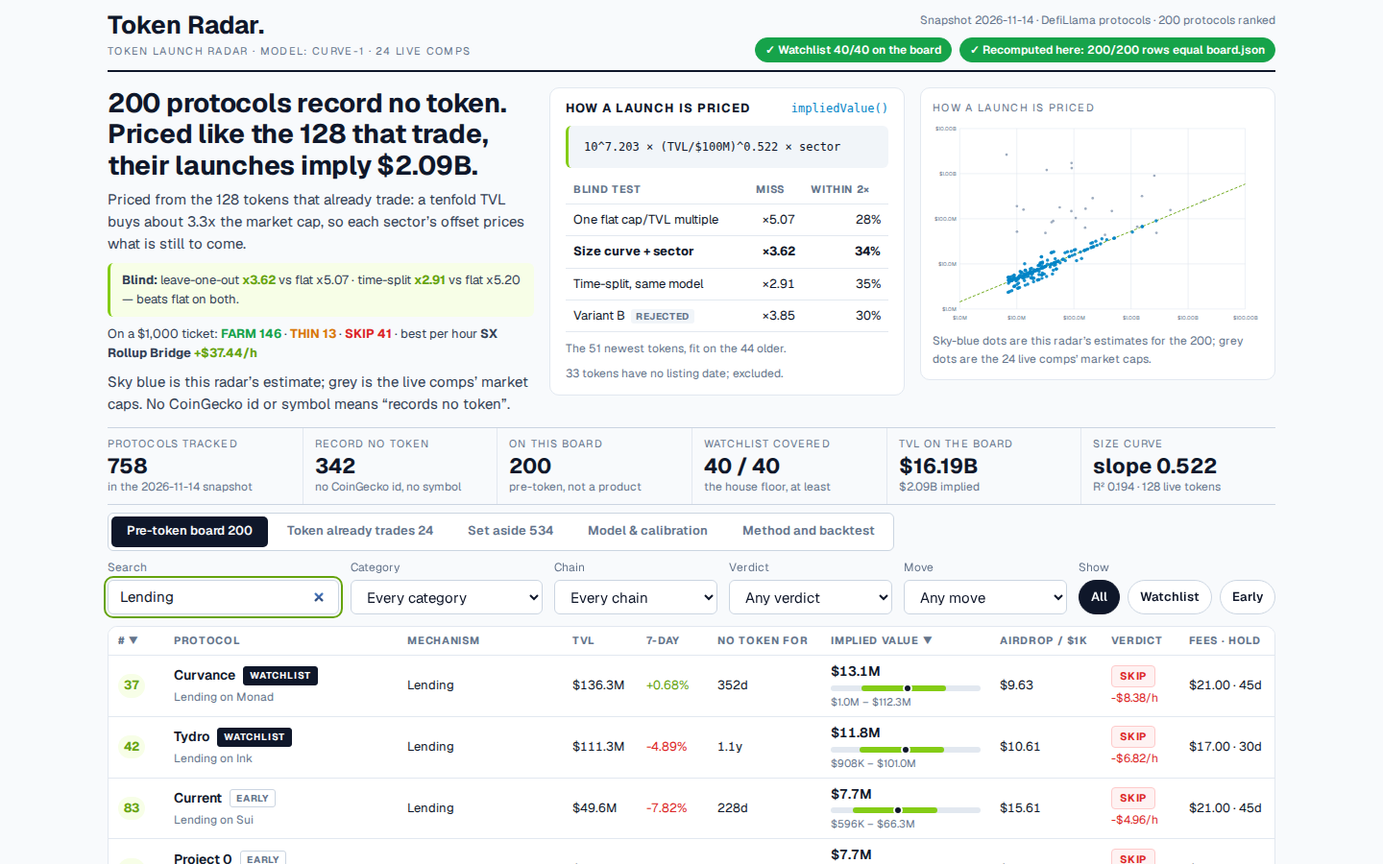
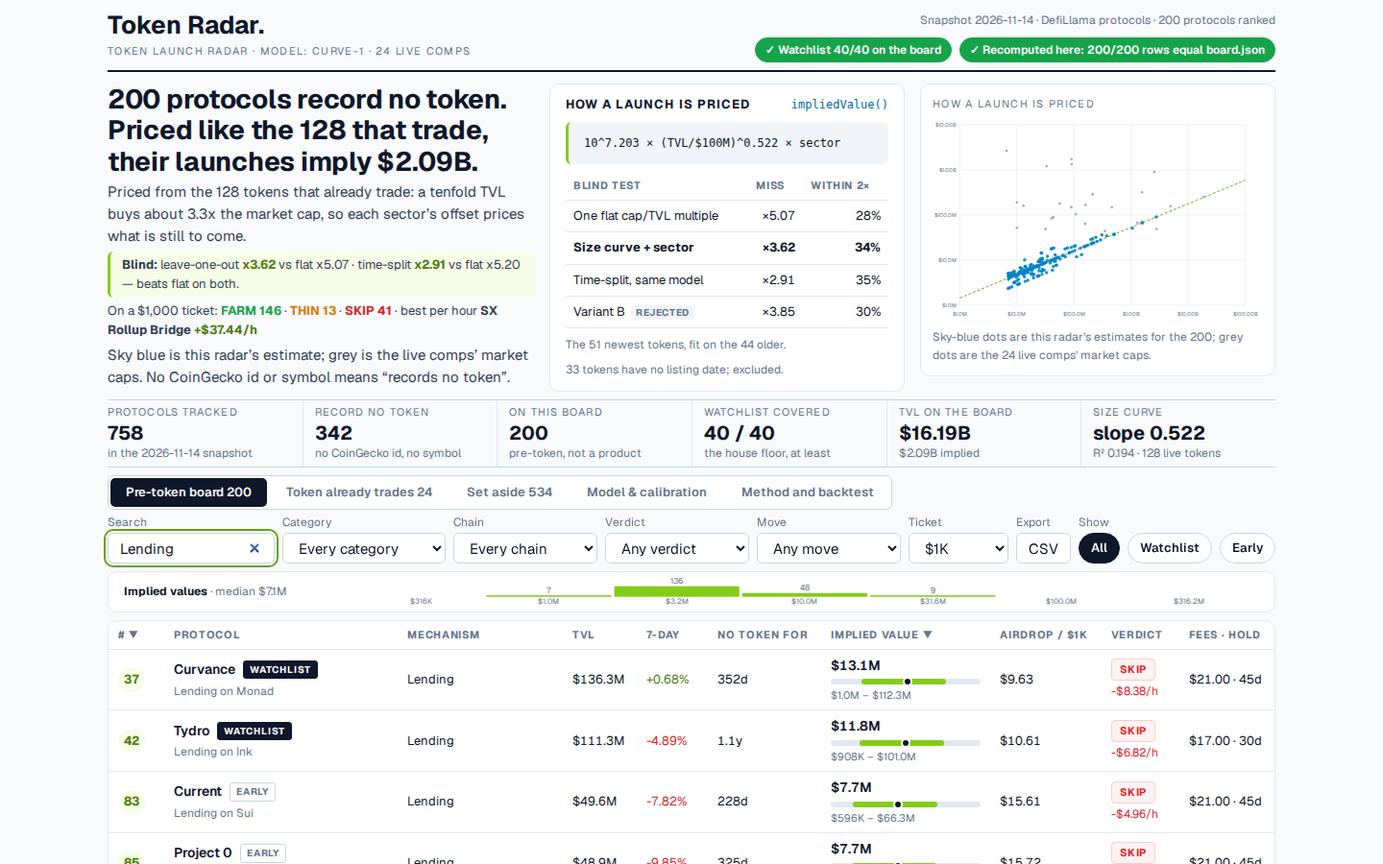
small audit items: histogram above table, text contrast, detail polish, CSV + ticket picker

diff --git a/dashboard/app.js b/dashboard/app.js
@@ -7,7 +7,7 @@
   var DATA = window.RADAR;
   if (!DATA) return;
   var app = document.getElementById('board');
-  var state = { q: '', category: 'all', chain: 'all', verdict: 'all', move: 'all', pill: 'all', tab: 'board', sort: 'implied', dir: -1, selected: null };
+  var state = { q: '', category: 'all', chain: 'all', verdict: 'all', move: 'all', pill: 'all', ticket: 1000, tab: 'board', sort: 'implied', dir: -1, selected: null };
 
   function fmtUsd(n) {
     if (n === null || n === undefined || !isFinite(n)) return 'n/a';
@@ -109,7 +109,7 @@
     return DATA.rows.filter(function (r) {
       if (state.category !== 'all' && r.category !== state.category) return false;
       if (state.chain !== 'all' && (r.chains || []).indexOf(state.chain) < 0) return false;
-      if (state.verdict !== 'all' && (!r.economics || r.economics.verdict !== state.verdict)) return false;
+      if (state.verdict !== 'all' && (!r.economics || econAt(r.economics).verdict !== state.verdict)) return false;
       if (state.move === 'up' && !(r.change_7d !== null && r.change_7d > 0)) return false;
       if (state.move === 'down' && !(r.change_7d !== null && r.change_7d < 0)) return false;
       if (state.pill === 'watchlist' && !r.watchlist) return false;
@@ -126,8 +126,8 @@
       if (key === 'tvl') return r.tvl_usd;
       if (key === 'growth') return r.change_7d === null ? -Infinity : r.change_7d;
       if (key === 'age') return r.age_days === null ? Infinity : r.age_days;
-      if (key === 'slice') return r.economics ? r.economics.slice_usd : 0;
-      if (key === 'net') return r.economics ? r.economics.net_per_hour_usd : 0;
+      if (key === 'slice') return r.economics ? econAt(r.economics).slice_usd : 0;
+      if (key === 'net') return r.economics ? econAt(r.economics).net_per_hour_usd : 0;
       return r.implied_value_usd;
     }
     return list.slice().sort(function (a, b) {
@@ -307,11 +307,11 @@
   function controls() {
     var categories = Array.from(new Set(DATA.rows.map(function (r) { return r.category || 'Other'; }))).sort();
     var chains = Array.from(new Set(DATA.rows.reduce(function (acc, r) { return acc.concat(r.chains || []); }, []))).sort();
-    function makeSelect(id, label, options, current, wide) {
+    function makeSelect(id, label, options, current, wide, cls) {
       var opts = options.map(function (o) {
         return '<option value="' + esc(o[0]) + '"' + (o[0] === current ? ' selected="selected"' : '') + '>' + esc(o[1]) + '</option>';
       }).join('');
-      return '<div class="field' + (wide ? ' field-wide' : '') + '"><label for="' + id + '">' + label + '</label><select id="' + id + '" aria-label="' + label + '">' + opts + '</select></div>';
+      return '<div class="field' + (wide ? ' field-wide' : '') + (cls ? ' ' + cls : '') + '"><label for="' + id + '">' + label + '</label><select id="' + id + '" aria-label="' + label + '">' + opts + '</select></div>';
     }
     function pill(id, label) {
       return '<button type="button" class="pill' + (state.pill === id ? ' active' : '') + '" aria-pressed="' + (state.pill === id ? 'true' : 'false') + '" data-act="pill" data-pill="' + id + '">' + label + '</button>';
@@ -324,6 +324,8 @@
       makeSelect('chain', 'Chain', [['all', 'Every chain']].concat(chains.map(function (c) { return [c, c]; })), state.chain, false) +
       makeSelect('verdict', 'Verdict', [['all', 'Any verdict'], ['FARM', 'FARM'], ['THIN', 'THIN'], ['SKIP', 'SKIP']], state.verdict, false) +
       makeSelect('move', 'Move', [['all', 'Any move'], ['up', 'Up, 7 days'], ['down', 'Down, 7 days']], state.move, false) +
+      makeSelect('ticket', 'Ticket', [['1000', '$1K'], ['10000', '$10K'], ['100000', '$100K']], String(state.ticket), false, 'field-ticket') +
+      '<div class="field"><label>Export</label><button type="button" class="button csv-btn" data-act="csv">CSV</button></div>' +
       '<div class="field"><label>Show</label><div class="pills">' + pill('all', 'All') + pill('watchlist', 'Watchlist') + pill('early', 'Early') + '</div></div>' +
     '</div>';
   }
@@ -341,19 +343,18 @@
       }
     });
     var maxC = Math.max.apply(null, counts.concat([1]));
-    var W = 1200, H = 120, L = 8, R = 8, T = 8, B = 22;
+    var W = 1200, H = 36, L = 8, R = 8, T = 11, B = 11;
     var bw = (W - L - R) / counts.length;
-    var parts = ['<svg viewBox="0 0 ' + W + ' ' + H + '" role="img" aria-label="Distribution of implied values, log scale">'];
+    var parts = ['<svg viewBox="0 0 ' + W + ' ' + H + '" role="img" aria-label="Distribution of implied values, log scale, half a decade a bar">'];
     counts.forEach(function (c, idx) {
-      var h = Math.max(c > 0 ? 3 : 0, Math.round((c / maxC) * (H - T - B - 14)));
+      var h = Math.max(c > 0 ? 2 : 0, Math.round((c / maxC) * (H - T - B)));
       var x = L + idx * bw + 2;
       parts.push('<rect class="hist-bar" x="' + x.toFixed(1) + '" y="' + (H - B - h) + '" width="' + (bw - 4).toFixed(1) + '" height="' + h + '"/>');
-      if (c > 0) parts.push('<text class="hist-n" x="' + (x + (bw - 4) / 2).toFixed(1) + '" y="' + (H - B - h - 4) + '" text-anchor="middle">' + c + '</text>');
-      parts.push('<text class="tick" x="' + (x + (bw - 4) / 2).toFixed(1) + '" y="' + (H - 6) + '" text-anchor="middle">' + fmtUsd(edges[idx]) + '</text>');
+      if (c > 0) parts.push('<text class="hist-n" x="' + (x + (bw - 4) / 2).toFixed(1) + '" y="' + (H - B - h - 3) + '" text-anchor="middle">' + c + '</text>');
+      parts.push('<text class="tick" x="' + (x + (bw - 4) / 2).toFixed(1) + '" y="' + (H - 2) + '" text-anchor="middle">' + fmtUsd(edges[idx]) + '</text>');
     });
     parts.push('</svg>');
-    return '<section class="panel hist"><h2>How the board\u2019s implied values are distributed</h2><div>' + parts.join('') + '</div>' +
-      '<p class="hist-note">Log scale, half a decade a bar; the middle of the board is ' + fmtUsd(MEDIAN_IMPLIED) + '. The long tail is the small early rows. Each row\u2019s table bar shows its own sensitivity range \u2014 the model\u2019s leave-one-out error, P10\u2013P90 \u2014 on a log scale from the smallest low to the largest high. Slice: what $1,000 deposited would get if 10% of the launch goes to depositors pro rata. Net: that slice minus the plan\u2019s gas and the forgone 4% T-bill yield, per plan and per hands-on hour.</p></section>';
+    return '<section class="panel hist-strip" title="Log scale, half a decade a bar"><div class="hist-strip-label"><b>Implied values</b> <span>\u00b7 median ' + fmtUsd(MEDIAN_IMPLIED) + '</span></div><div class="hist-strip-svg">' + parts.join('') + '</div></section>';
   }
 
   function sortHeader(key, label) {
@@ -391,6 +392,7 @@
     }
     var body = list.map(function (r) {
       var e = r.economics;
+      var ea = econAt(e);
       var growth = r.change_7d === null ? 'n/a' : fmtPct(r.change_7d);
       var growthClass = r.change_7d === null ? '' : r.change_7d >= 0 ? 'pos' : 'neg';
       var chains = r.chains || [];
@@ -403,8 +405,8 @@
         '<td class="num ' + growthClass + '">' + growth + '</td>' +
         '<td class="num">' + fmtAge(r.age_days) + '</td>' +
         '<td>' + rangeBar(r) + '</td>' +
-        '<td class="num">' + (e ? fmtMoney(e.slice_usd) : 'n/a') + '</td>' +
-        '<td>' + (e ? '<div class="verdict-cell">' + verdictTag(e.verdict) + '<div class="net-h ' + (e.net_per_hour_usd >= 0 ? 'pos' : 'neg') + '">' + fmtSigned(e.net_per_hour_usd) + '/h</div></div>' : '<span>n/a</span>') + '</td>' +
+        '<td class="num">' + (ea ? fmtMoney(ea.slice_usd) : 'n/a') + '</td>' +
+        '<td>' + (ea ? '<div class="verdict-cell">' + verdictTag(ea.verdict) + '<div class="net-h ' + (ea.net_per_hour_usd >= 0 ? 'pos' : 'neg') + '">' + fmtSigned(ea.net_per_hour_usd) + '/h</div></div>' : '<span>n/a</span>') + '</td>' +
         '<td class="num">' + (e ? fmtMoney(e.gas_usd) + ' \u00b7 ' + e.hold_days + 'd' : 'n/a') + '</td>' +
       '</tr>';
     }).join('');
@@ -412,7 +414,7 @@
       sortHeader('implied', '#') + sortHeader('name', 'Protocol') +
       '<th>Mechanism</th>' +
       sortHeader('tvl', 'TVL') + sortHeader('growth', '7-day') + sortHeader('age', 'No token for') +
-      sortHeader('implied', 'Implied value') + sortHeader('slice', 'Airdrop / $1K') + sortHeader('net', 'Verdict') +
+      sortHeader('implied', 'Implied value') + sortHeader('slice', 'Airdrop / ' + ticketLabel()) + sortHeader('net', 'Verdict') +
       '<th>Fees \u00b7 Hold</th>' +
       '</tr></thead><tbody>' + body + '</tbody></table></div>' +
       '<div class="table-meta"><span class="count">' + list.length + ' of ' + DATA.board_size + ' shown \u00b7 click a column to sort, a row for its detail</span></div></div></div>';
@@ -621,8 +623,8 @@
       '<div class="panel dstat"><div class="stat-label">IMPLIED VALUE</div><div class="stat-value">' + fmtUsd(row.implied_value_usd) + '</div><div class="stat-sub">P25 to P90 ' + fmtUsd(s.p25) + ' to ' + fmtUsd(s.p90) + '</div></div>' +
       '<div class="panel dstat"><div class="stat-label">TVL</div><div class="stat-value">' + fmtUsd(row.tvl_usd) + '</div><div class="stat-sub">' + (row.change_7d === null ? '7d n/a' : '7d ' + fmtPct(row.change_7d)) + '</div></div>' +
       '<div class="panel dstat"><div class="stat-label">NO TOKEN FOR</div><div class="stat-value">' + fmtAge(row.age_days) + '</div><div class="stat-sub">tracked since ' + esc(row.listed_at || '\u2014') + '</div></div>' +
-      '<div class="panel dstat"><div class="stat-label">NET OF ALL COSTS</div><div class="stat-value">' + (e ? fmtMoney(e.slice_usd) : 'n/a') + '</div><div class="stat-sub">at 10% to depositors</div>' +
-        (e ? '<div class="stat-net ' + (e.net_usd >= 0 ? 'pos' : 'neg') + '">' + fmtSigned(e.net_usd) + '</div><div class="stat-sub">' + esc(e.verdict) + ' | ' + fmtMoney(e.gas_usd) + ' fees + ' + fmtMoney(e.forgone_usd) + ' T-bill</div>' : '') +
+      '<div class="panel dstat"><div class="stat-label">NET OF ALL COSTS</div><div class="stat-value ' + (e ? (e.net_usd >= 0 ? 'pos' : 'neg') : '') + '">' + (e ? fmtSigned(e.net_usd) : 'n/a') + '</div><div class="stat-sub">slice ' + (e ? fmtMoney(e.slice_usd) : 'n/a') + ' at 10% to depositors</div>' +
+        (e ? '<div class="stat-sub">' + esc(e.verdict) + ' | ' + fmtMoney(e.gas_usd) + ' fees + ' + fmtMoney(e.forgone_usd) + ' T-bill</div>' : '') +
       '</div></section>';
 
     
@@ -655,11 +657,11 @@
     
     var steps = row.plan || [];
     var planBody = steps.map(function (st, i) {
-      return '<tr><td class="num">' + (i + 1) + '</td><td class="plan-step"><b>' + esc(st.label) + '. </b>' + esc(st.text || '') + '</td><td class="num">' + ((st.cost_usd || 0) === 0 ? 'none' : fmtMoney(st.cost_usd)) + '</td><td class="num">' + ((st.minutes || 0) > 0 ? (st.minutes + 'm') : '\u2014') + '</td></tr>';
+      return '<tr><td class="num">' + (i + 1) + '</td><td class="plan-step"><b>' + esc(st.label) + '. </b>' + esc(st.text || '') + '</td><td class="num">' + ((st.cost_usd || 0) === 0 ? 'none' : fmtMoney(st.cost_usd)) + '</td><td class="num">' + ((st.minutes || 0) > 0 ? (st.minutes + 'm') : esc(st.time || '\u2014')) + '</td></tr>';
     }).join('');
     var plan = '<section class="panel dpanel"><h2>Farm plan \u00b7 ' + esc(row.category || 'Other') + ' on ' + esc(chain0) + ' \u00b7 $' + capital + ' for ' + hold + ' days</h2>' +
       '<div class="table-wrap"><table class="detail-table plan-table"><thead><tr><th>#</th><th>Step</th><th>Cost</th><th>Time</th></tr></thead><tbody>' + planBody + '</tbody></table></div>' +
-      (e ? '<p class="plan-foot">Slice ' + fmtMoney(e.slice_usd) + ' \u00b7 Fees \u2212' + fmtMoney(e.gas_usd) + ' \u00b7 T-bill forgone \u2212' + fmtMoney(e.forgone_usd) + ' \u00b7 Net <b class="' + (e.net_usd >= 0 ? 'pos' : 'neg') + '">' + fmtSigned(e.net_usd) + '</b> \u00b7 Work ' + e.hands_on_hours.toFixed(2) + 'h \u00b7 Per hour <b class="' + (e.net_per_hour_usd >= 0 ? 'pos' : 'neg') + '">' + fmtSigned(e.net_per_hour_usd) + '/h</b></p>'
+      (e ? '<p class="plan-foot">Slice ' + fmtMoney(e.slice_usd) + ' \u00b7 Fees \u2212' + fmtMoney(e.gas_usd) + ' \u00b7 T-bill forgone \u2212' + fmtMoney(e.forgone_usd) + ' \u00b7 Net\u00a0<b class="' + (e.net_usd >= 0 ? 'pos' : 'neg') + '">' + fmtSigned(e.net_usd) + '</b> \u00b7 Work ' + e.hands_on_hours.toFixed(2) + 'h \u00b7 Per hour\u00a0<b class="' + (e.net_per_hour_usd >= 0 ? 'pos' : 'neg') + '">' + fmtSigned(e.net_per_hour_usd) + '/h</b></p>'
         : '<p class="plan-foot">No farm economics for this row.</p>') +
     '</section>';
 
@@ -693,7 +695,7 @@
     if (state.selected && !row) { state.selected = null; writeHash(); }
     var body;
     if (row) body = tabBar() + detailPage(row);
-    else if (state.tab === 'board') body = hero() + statsStrip() + tabBar() + controls() + boardTable() + histogram();
+    else if (state.tab === 'board') body = hero() + statsStrip() + tabBar() + controls() + histogram() + boardTable();
     else if (state.tab === 'live') body = tabBar() + liveTable();
     else if (state.tab === 'setaside') body = tabBar() + setAsideTab();
     else if (state.tab === 'backtest') body = tabBar() + backtestTab();
@@ -719,6 +721,7 @@
     else if (act === 'pill') { state.pill = t.getAttribute('data-pill'); writeHash(); render(); }
     else if (act === 'back') { goBackToBoard(); }
     else if (act === 'clear') { state.q = ''; state.category = 'all'; state.chain = 'all'; state.verdict = 'all'; state.move = 'all'; state.pill = 'all'; writeHash(); render(); }
+    else if (act === 'csv') { downloadCsv(); }
   });
   app.addEventListener('input', function (e) {
     if (e.target.id === 'q') {
@@ -732,7 +735,7 @@
     }
   });
   app.addEventListener('change', function (e) {
-    if (['category', 'chain', 'verdict', 'move'].indexOf(e.target.id) < 0) return;
+    if (['category', 'chain', 'verdict', 'move', 'ticket'].indexOf(e.target.id) < 0) return;
     state[e.target.id] = e.target.value;
     writeHash();
     render();
@@ -746,6 +749,37 @@
 
   readHash();
   render();
+  function ticketLabel() { var t = +state.ticket; return t === 100000 ? '$100K' : t === 10000 ? '$10K' : '$1K'; }
+  function econAt(e) {
+    if (!e) return null;
+    var k = state.ticket / 1000;
+    var slice = e.slice_usd * k;
+    var forgone = e.forgone_usd * k;
+    var net = slice - e.gas_usd - forgone;
+    return { slice_usd: slice, gas_usd: e.gas_usd, forgone_usd: forgone, net_usd: net, net_per_hour_usd: net / e.hands_on_hours, verdict: net > 0 ? 'FARM' : (slice - e.gas_usd > 0 ? 'THIN' : 'SKIP'), hold_days: e.hold_days, hands_on_hours: e.hands_on_hours };
+  }
+  function csvCell(v) {
+    var s = String(v === null || v === undefined ? '' : v);
+    return /[",\n]/.test(s) ? '"' + s.replace(/"/g, '""') + '"' : s;
+  }
+  function downloadCsv() {
+    var list = sortedRows(rows());
+    var head = ['rank', 'protocol', 'category', 'tvl_usd', 'change_7d_pct', 'age_days', 'implied_value_usd', 'implied_p10_usd', 'implied_p90_usd', 'airdrop_usd', 'verdict', 'net_per_hour_usd', 'gas_usd', 'hold_days'];
+    var lines = [head.join(',')];
+    list.forEach(function (r) {
+      var ea = econAt(r.economics);
+      var s = r.sensitivity || {};
+      lines.push([r.rank, r.name, r.category || 'Other', r.tvl_usd, r.change_7d === null ? '' : r.change_7d, r.age_days === null ? '' : r.age_days, r.implied_value_usd, s.p10 || '', s.p90 || '', ea ? ea.slice_usd.toFixed(2) : '', ea ? ea.verdict : '', ea ? ea.net_per_hour_usd.toFixed(2) : '', r.economics ? r.economics.gas_usd : '', r.economics ? r.economics.hold_days : ''].map(csvCell).join(','));
+    });
+    var blob = new Blob([lines.join('\n')], { type: 'text/csv' });
+    var a = document.createElement('a');
+    a.href = URL.createObjectURL(blob);
+    a.download = 'token-launch-radar.csv';
+    document.body.appendChild(a);
+    a.click();
+    a.remove();
+    setTimeout(function () { URL.revokeObjectURL(a.href); }, 1000);
+  }
   window.addEventListener('keydown', function (e) {
     if (e.key === 'Escape' && state.selected) goBackToBoard();
   });

diff --git a/dashboard/app.css b/dashboard/app.css
@@ -1,6 +1,6 @@
 @font-face{font-family:'Geist';src:url('fonts/geist-var.woff2') format('woff2-variations');font-weight:100 900;font-style:normal;font-display:swap}
 @font-face{font-family:'Geist';src:url('fonts/geist-var-italic.woff2') format('woff2-variations');font-weight:100 900;font-style:italic;font-display:swap}
-:root{--paper:#f8fafc;--paper-deep:#f1f5f9;--surface:#fff;--ink:#0f172a;--ink-soft:#334155;--muted:#64748b;--border:#e2e8f0;--border-strong:#cbd5e1;--accent:#65a30d;--lime:#84cc16;--lime-soft:#f7fee7;--lime-mid:#bef264;--sky:#0284c7;--sky-fill:#0ea5e9;--sky-soft:#f0f9ff;--amber:#d97706;--amber-soft:#fffbeb;--negative:#dc2626;--negative-soft:#fef2f2;--gold:#eab308;--radius-control:6px;--radius-panel:10px;--font-body:'Geist',system-ui,-apple-system,"Segoe UI",Roboto,"Helvetica Neue",Arial,sans-serif;--font-mono:ui-monospace,"SF Mono",Menlo,Consolas,monospace;--step-1:4px;--step-2:8px;--step-3:12px;--step-4:16px;--step-5:24px;--step-6:32px;--step-7:48px}
+:root{--paper:#f8fafc;--paper-deep:#f1f5f9;--surface:#fff;--ink:#0f172a;--ink-soft:#334155;--muted:#64748b;--border:#e2e8f0;--border-strong:#cbd5e1;--accent:#65a30d;--accent-text:#4d7c0f;--lime:#84cc16;--lime-soft:#f7fee7;--lime-mid:#bef264;--sky:#0284c7;--sky-text:#0369a1;--sky-fill:#0ea5e9;--sky-soft:#f0f9ff;--amber:#d97706;--amber-soft:#fffbeb;--negative:#dc2626;--negative-soft:#fef2f2;--gold:#eab308;--radius-control:6px;--radius-panel:10px;--font-body:'Geist',system-ui,-apple-system,"Segoe UI",Roboto,"Helvetica Neue",Arial,sans-serif;--font-mono:ui-monospace,"SF Mono",Menlo,Consolas,monospace;--step-1:4px;--step-2:8px;--step-3:12px;--step-4:16px;--step-5:24px;--step-6:32px;--step-7:48px}
 *{box-sizing:border-box}
 html{color-scheme:light}
 body{margin:0;background:var(--paper);color:var(--ink);font:400 15px/1.55 var(--font-body);text-wrap:pretty}
@@ -12,7 +12,7 @@ p{margin:0}
 figure{margin:0}
 button,input,select{font:inherit;color:inherit}
 button{cursor:pointer}
-a{color:var(--accent)}
+a{color:var(--accent-text)}
 .skip-link{position:absolute;left:-9999px;top:0;padding:var(--step-2) var(--step-4);background:var(--surface);border:1px solid var(--border);z-index:20}
 .skip-link:focus{left:var(--step-4);top:var(--step-4)}
 :focus-visible{outline:2px solid var(--accent);outline-offset:2px}
@@ -24,12 +24,12 @@ a{color:var(--accent)}
 .top-meta{display:flex;flex-direction:column;align-items:flex-end;gap:var(--step-2);color:var(--muted);font-size:12px;text-align:right}
 .top-pills{display:flex;gap:var(--step-2);flex-wrap:wrap;justify-content:flex-end}
 .badge{display:inline-block;padding:3px 10px;border-radius:999px;background:#16a34a;color:#fff;border:1px solid #16a34a;font-size:12px;font-weight:600;white-space:nowrap}
-.hero{display:grid;grid-template-columns:minmax(0,1.2fr) minmax(0,1fr) minmax(0,1fr);gap:var(--step-4) var(--step-4);padding:16px 0 12px;align-items:start}
+.hero{display:grid;grid-template-columns:minmax(0,1.2fr) minmax(0,1fr) minmax(0,1fr);gap:var(--step-4) var(--step-4);padding:12px 0 8px;align-items:start}
 
 
-.hero-copy p{margin-top:var(--step-2);max-width:60ch;color:var(--ink-soft)}
+.hero-copy p{margin-top:var(--step-1);max-width:60ch;color:var(--ink-soft)}
 
-.valid-line{padding:var(--step-2) var(--step-3);border-left:3px solid var(--lime);background:var(--lime-soft);border-radius:var(--radius-control);font-size:13px}
+.valid-line{padding:var(--step-1) var(--step-3);border-left:3px solid var(--lime);background:var(--lime-soft);border-radius:var(--radius-control);font-size:13px}
 .ticket-line{font-size:13px}
 .ticket-line .t-farm{color:#16a34a}
 .ticket-line .t-thin{color:var(--amber)}
@@ -37,7 +37,7 @@ a{color:var(--accent)}
 .model-card{padding:var(--step-3) var(--step-4);display:grid;gap:var(--step-2);align-content:start}
 .model-card-head{display:flex;justify-content:space-between;align-items:baseline;gap:var(--step-2)}
 .model-card-head h2{font-size:13px;letter-spacing:0.08em;text-transform:uppercase}
-.model-fn{font-family:var(--font-mono);font-size:12px;color:var(--sky);white-space:nowrap}
+.model-fn{font-family:var(--font-mono);font-size:12px;color:var(--sky-text);white-space:nowrap}
 .model-card .formula{margin:0}
 .model-bench{width:100%;font-size:13px}
 .model-bench th,.model-bench td{padding:6px 8px}
@@ -56,28 +56,29 @@ a{color:var(--accent)}
 .scatter-card .bench-line{stroke:var(--accent);stroke-width:1.5;stroke-dasharray:5 3}
 .fig-note{margin-top:var(--step-2);font-size:12px;color:var(--muted)}
 .stats{display:grid;grid-template-columns:repeat(6,1fr);border-top:1px solid var(--border-strong);border-bottom:1px solid var(--border-strong)}
-.stat{padding:var(--step-2) var(--step-3);border-left:1px solid var(--border)}
+.stat{padding:var(--step-1) var(--step-3);border-left:1px solid var(--border)}
 .stat:first-child{border-left:0;padding-left:0}
 .stat-label{font-size:11px;letter-spacing:0.1em;color:var(--muted);text-transform:uppercase}
-.stat-value{font-size:22px;font-weight:700;line-height:1.15;margin-top:2px}
+.stat-value{font-size:20px;font-weight:700;line-height:1.15;margin-top:2px;white-space:nowrap}
 .stat-sub{font-size:12px;color:var(--muted)}
 .verdict{display:inline-block;padding:2px 8px;border-radius:4px;font-size:11px;font-weight:700;letter-spacing:0.08em}
 .verdict.farm{background:#f0fdf4;color:#16a34a;border:1px solid #bbf7d0}
 .verdict.thin{background:var(--amber-soft);color:var(--amber);border:1px solid #fde68a}
 .verdict.skip{background:var(--negative-soft);color:var(--negative);border:1px solid #fecaca}
-.tabbar{margin-top:var(--step-2);display:flex;gap:var(--step-1);padding:3px;border:1px solid var(--border-strong);border-radius:var(--radius-control);background:var(--surface);width:fit-content;max-width:100%;flex-wrap:wrap}
-.tabbar button{min-height:32px;padding:0 var(--step-4);border:0;border-radius:5px;background:transparent;color:var(--muted);font-weight:600;font-size:13px;white-space:nowrap}
+.tabbar{margin-top:var(--step-2);display:flex;gap:var(--step-1);padding:2px;border:1px solid var(--border-strong);border-radius:var(--radius-control);background:var(--surface);width:fit-content;max-width:100%;flex-wrap:wrap}
+.tabbar button{min-height:30px;padding:0 var(--step-4);border:0;border-radius:5px;background:transparent;color:var(--muted);font-weight:600;font-size:13px;white-space:nowrap}
 .tabbar button[aria-pressed="true"]{background:var(--ink);color:var(--paper)}
-.controls{display:flex;flex-wrap:nowrap;align-items:end;gap:var(--step-3);padding:var(--step-2) 0 var(--step-3)}
-.field{display:grid;gap:var(--step-1);min-width:0}
+.controls{display:flex;flex-wrap:nowrap;align-items:end;gap:var(--step-2);padding:var(--step-1) 0 var(--step-2)}
+.field{display:grid;gap:2px;min-width:0}
 .field-search{flex:1 1 120px}
 .field label{color:var(--muted);font-size:12px}
-.field input[type="search"],.field select{min-height:36px;padding:0 var(--step-3);border:1px solid var(--border-strong);border-radius:var(--radius-control);background:var(--surface)}
+.field input[type="search"],.field select{min-height:32px;padding:0 var(--step-3);border:1px solid var(--border-strong);border-radius:var(--radius-control);background:var(--surface)}
 .field input[type="search"]{min-width:0;width:100%}
-.field select{width:170px}
-.field-wide select{width:200px}
+.field select{width:150px}
+.field-wide select{width:170px}
+.field-ticket select{width:104px}
 .pills{display:flex;align-items:center;gap:var(--step-2)}
-.pill{min-height:36px;padding:0 var(--step-3);border:1px solid var(--border-strong);border-radius:999px;background:var(--surface);font-size:13px;font-weight:600}
+.pill{min-height:32px;padding:0 var(--step-3);border:1px solid var(--border-strong);border-radius:999px;background:var(--surface);font-size:13px;font-weight:600}
 .pill.active{background:var(--ink);border-color:var(--ink);color:var(--paper)}
 .count{margin-left:auto;color:var(--muted);font-size:13px}
 .table-meta{display:flex;justify-content:flex-end;padding:var(--step-2) 0 0}
@@ -97,9 +98,9 @@ tbody tr[data-selected="true"]{background:var(--lime-soft)}
 .name{display:grid;gap:2px}
 .name b{font-weight:600;font-size:14px}
 .sub{color:var(--muted);font-size:12px}
-.pos{color:var(--accent)}
+.pos{color:var(--accent-text)}
 .neg{color:var(--negative)}
-.rank-badge{display:inline-block;min-width:26px;text-align:center;padding:2px 6px;border-radius:999px;background:var(--lime-soft);color:var(--accent);font-weight:700}
+.rank-badge{display:inline-block;min-width:26px;text-align:center;padding:2px 6px;border-radius:999px;background:var(--lime-soft);color:var(--accent-text);font-weight:700}
 .rank-badge.top{background:var(--lime);color:#0f172a}
 .rank-badge.top3{background:#fefce8;color:#a16207}
 .tag-watch{display:inline-block;width:fit-content;padding:1px 6px;border-radius:3px;background:#0f172a;color:#fff;border:1px solid #0f172a;font-size:10px;font-weight:700;letter-spacing:0.08em}
@@ -116,18 +117,20 @@ tbody tr[data-selected="true"]{background:var(--lime-soft)}
 .range-sub{font-family:var(--font-body);font-size:11px;color:var(--muted);white-space:nowrap}
 .verdict-cell{display:grid;gap:2px;justify-items:start}
 .net-h{font-family:var(--font-body);font-size:12px;white-space:nowrap}
-.hist{padding:var(--step-4) var(--step-5)}
-.hist h2{margin-bottom:var(--step-2)}
-.hist svg{display:block;width:100%;height:auto}
-.hist .hist-bar{fill:var(--lime)}
-.hist .hist-n{font-family:var(--font-body);font-size:10px;fill:var(--muted)}
-.hist .tick{font-family:var(--font-body);font-size:10px;fill:var(--muted)}
-.hist-note{margin-top:var(--step-2);font-size:12px;color:var(--muted)}
+.hist-strip{display:flex;align-items:center;gap:var(--step-4);padding:6px var(--step-4);margin-bottom:var(--step-2)}
+.hist-strip-label{flex:0 0 220px;font-size:12px;white-space:nowrap}
+.hist-strip-label b{font-weight:700}
+.hist-strip-label span{color:var(--muted)}
+.hist-strip-svg{flex:1;min-width:0}
+.hist-strip svg{display:block;width:100%;height:auto}
+.hist-strip .hist-bar{fill:var(--lime)}
+.hist-strip .hist-n{font-family:var(--font-body);font-size:11px;fill:var(--muted)}
+.hist-strip .tick{font-family:var(--font-body);font-size:10px;fill:var(--muted)}
 .set-aside{display:grid;gap:var(--step-4);margin-top:var(--step-4)}
 .set-intro{max-width:75ch;color:var(--ink-soft)}
 .set-group{padding:var(--step-4) var(--step-5)}
 .set-group h2{display:flex;align-items:baseline;gap:var(--step-2);flex-wrap:wrap}
-.set-count{font-family:var(--font-body);font-size:15px;color:var(--accent)}
+.set-count{font-family:var(--font-body);font-size:15px;color:var(--accent-text)}
 .set-detail{margin-top:var(--step-2);font-size:13px;color:var(--muted)}
 .set-group .table-wrap{margin-top:var(--step-3)}
 .set-group tbody tr{cursor:default}
@@ -138,7 +141,7 @@ tbody tr[data-selected="true"]{background:var(--lime-soft)}
 .bt-panel .table-wrap{margin-top:var(--step-1)}
 .bt-panel tbody tr{cursor:default}
 .bt-panel tbody tr:hover{background:transparent}
-.better{color:var(--accent);font-weight:700}
+.better{color:var(--accent-text);font-weight:700}
 .oos-card svg{display:block;width:100%;height:auto}
 .oos-card .grid{stroke:var(--border);stroke-width:1}
 .oos-card .tick{font-family:var(--font-body);font-size:9px;fill:var(--muted)}
@@ -155,10 +158,11 @@ tbody tr[data-selected="true"]{background:var(--lime-soft)}
 .bench th,.bench td{padding:6px var(--step-3)}
 .bench td:first-child{font-weight:600}
 .assumptions{margin:0;padding-left:var(--step-5);display:grid;gap:var(--step-2);font-size:14px;color:var(--ink-soft)}
-.assumptions li::marker{color:var(--accent)}
+.assumptions li::marker{color:var(--accent-text)}
 .empty{padding:var(--step-7) var(--step-5);text-align:center;display:grid;gap:var(--step-3);justify-items:center}
 .empty p{color:var(--muted)}
-.button{min-height:36px;padding:0 var(--step-4);border:1px solid var(--border-strong);border-radius:var(--radius-control);background:var(--surface)}
+.button{min-height:32px;padding:0 var(--step-4);border:1px solid var(--border-strong);border-radius:var(--radius-control);background:var(--surface)}
+.csv-btn{padding:0 var(--step-3)}
 .button.primary{background:var(--lime);border-color:var(--lime);color:#0f172a;font-weight:700}
 .detail-page{margin-top:var(--step-4);display:grid;gap:var(--step-4);align-content:start}
 .back-btn{justify-self:start}
@@ -168,7 +172,6 @@ tbody tr[data-selected="true"]{background:var(--lime-soft)}
 .detail-sub{max-width:90ch;color:var(--ink-soft)}
 .detail-stats{display:grid;grid-template-columns:repeat(4,1fr);gap:var(--step-4)}
 .dstat{padding:var(--step-4);display:grid;gap:2px;align-content:start}
-.stat-net{font-family:var(--font-body);font-size:16px;font-weight:700;margin-top:var(--step-2)}
 .detail-cols{display:grid;grid-template-columns:minmax(0,1fr) minmax(0,1fr);gap:var(--step-4);align-items:start}
 .detail-col{display:grid;gap:var(--step-4);align-content:start}
 .dpanel{padding:var(--step-4) var(--step-5);display:grid;gap:var(--step-3);align-content:start}
@@ -189,6 +192,7 @@ tbody tr[data-selected="true"]{background:var(--lime-soft)}
 .peer-cap{font-size:11px;letter-spacing:0.1em;color:var(--muted);text-transform:uppercase}
 .plan-foot{font-size:13px;color:var(--ink-soft);border-top:1px solid var(--border);padding-top:var(--step-3)}
 .plan-foot b{font-family:var(--font-body)}
+.nowrap{white-space:nowrap}
 .detail-table{width:100%;border-collapse:collapse;font-size:13px}
 .detail-table th,.detail-table td{padding:6px 10px;border-bottom:1px solid var(--border);text-align:left;vertical-align:top}
 .detail-table thead th{color:var(--muted);font-size:11px;font-weight:700;letter-spacing:0.06em;text-transform:uppercase;white-space:nowrap}

diff --git a/README.md b/README.md
@@ -258,7 +258,8 @@ vendor/makefun-board.ts  make.fun's dossier library, copied unchanged
 dashboard/index.html     the page shell
 dashboard/app.css        the theme (light, lime + sky-blue accents, no network)
 dashboard/app.js         hero, scatter, stats, verdicts, tabs, filters,
-                         board, histogram, detail page, offsets, backtest
+                         board, histogram strip, CSV export, ticket picker,
+                         detail page, offsets, backtest
 screenshots/              1-board.png, 2-detail.png, 3-filtered.png
 LICENSE                  MIT
 README.md                this file
